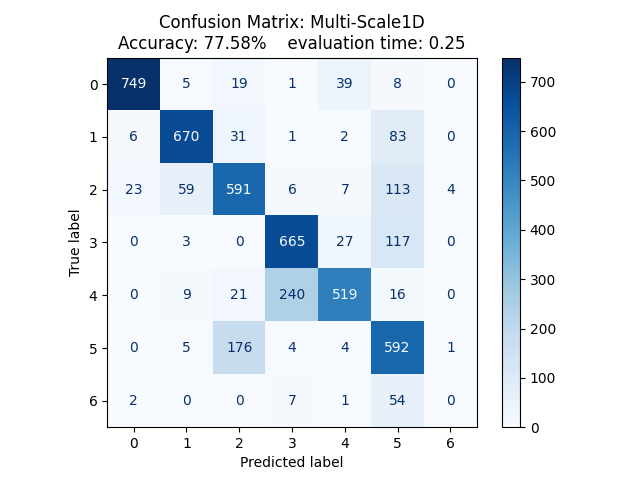
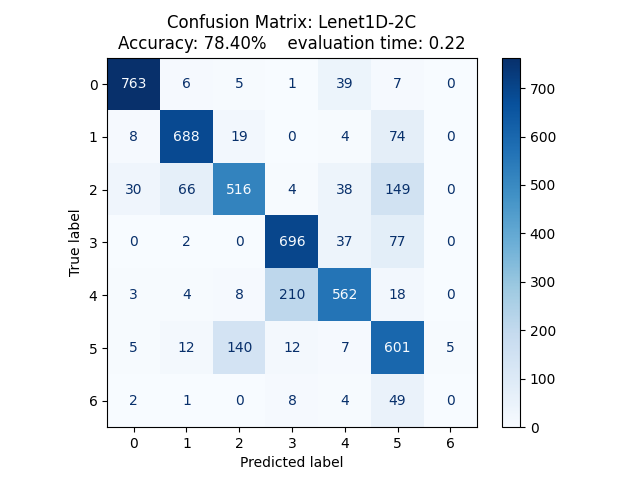
Caricamento nuove modifiche Aggiunte l'analisi delle performance e le matrici di confusione nel codice nonché la possibilità di variare la complessità del dataset da analizzare

diff --git a/Emg_evaluate.py b/Emg_evaluate.py
@@ -37,15 +37,17 @@ test_loader = DataLoader(test_ds, batch_size=BATCH_SIZE, shuffle=False)
 
 #setup del training
 device= torch.device("cuda" if torch.cuda.is_available() else "cpu")
-model=EmgStandard(num_classes=NUM_CLASSES).to(device)
+model=Emg(num_classes=NUM_CLASSES).to(device)
 print(f"Dispositivo utilizzato per la valutazione: {model.__class__.__name__}")
 model_filepath = base_path / "emg_lenet1d.pth"
+loss_function = nn.CrossEntropyLoss()
 model.load_state_dict(torch.load(model_filepath))
 model.eval()
 training_start_time= time()
 
 # 3. Disattiviamo il calcolo dei gradienti per risparmiare memoria e velocizzare i calcoli
 with torch.no_grad():
+    test_loss = 0.0
     correct = 0
     total = 0
     all_preds=[]
@@ -56,11 +58,13 @@ with torch.no_grad():
         
         # Passaggio in avanti
         outputs = model(inputs)
+        t_loss = loss_function(outputs, labels)
         
         # Troviamo il gesto con il punteggio più alto (0 o 1)
         _, predicted = torch.max(outputs.data, 1)
         
         # Accumuliamo il totale delle finestre e quelle indovinate
+        test_loss += t_loss.item()
         total += labels.size(0)
         correct += (predicted == labels).sum().item()
 
@@ -71,10 +75,11 @@ with torch.no_grad():
     print(f"Accuracy of the network on the test dataset: {100 * correct / total:.2f} %")
 training_end_time=time()
 training_time= training_end_time - training_start_time
+avg_test_loss = test_loss / len(test_loader)
 print(f"Testing completed in {training_time:.4f} seconds")
 cm = confusion_matrix(all_labels, all_preds)
 
 disp = ConfusionMatrixDisplay(confusion_matrix=cm, display_labels=list(range(NUM_CLASSES)))
 disp.plot(cmap=plt.cm.Blues, values_format='d')
-plt.title(f'Confusion Matrix: Lenet1D-2C\nAccuracy: {100 * correct / total:.2f}%    ' f'evaluation time: {training_time:.2f}')
+plt.title(f'Confusion Matrix: Lenet1D-2C\nAccuracy: {100 * correct / total:.2f}%    ' f'evaluation time: {training_time:.2f}    'f'loss: {avg_test_loss:.2f}%')
 plt.show()

diff --git a/Emg_dataset.py b/Emg_dataset.py
@@ -1,7 +1,7 @@
 
 
 
-
+from pathlib import Path
 import os
 import numpy as np
 import pandas as pd
@@ -97,10 +97,11 @@ def preprocess_data(x_train, x_test):
 
 if __name__ == "__main__":
    
-    data_path = "./dataset" 
+    base_path= Path(__file__).resolve().parent
+    data_folder_path = base_path / "dataset" 
     
 
-    estrattore = EmgDataloader(data_path)
+    estrattore = EmgDataloader(data_folder_path)
     
     (x_train, y_train), (x_test, y_test) = estrattore.load_data()
     train_tensor, test_tensor = preprocess_data(x_train, x_test)

diff --git a/Emg_train.py b/Emg_train.py
@@ -10,7 +10,7 @@ from Emg_model import Emg, EmgStandard, EmgMultiScale
 
 #def train_model():
 BATCH_SIZE = 64      
-EPOCHS = 15          
+EPOCHS = 125        
 LEARNING_RATE = 0.001
 NUM_CLASSES= 7
 
@@ -35,7 +35,7 @@ test_loader = DataLoader(test_ds, batch_size=BATCH_SIZE, shuffle=False)
 
 #setup del training
 device= torch.device("cuda" if torch.cuda.is_available() else "cpu")
-model=EmgStandard(num_classes=NUM_CLASSES).to(device)
+model=Emg(num_classes=NUM_CLASSES).to(device)
 print(f"Dispositivo utilizzato per l'allenamento: {model.__class__.__name__}")
 loss_function = nn.CrossEntropyLoss()
 optimizer = optim.Adam(model.parameters(), lr=LEARNING_RATE)

diff --git a/Emg_model.py b/Emg_model.py
@@ -127,4 +127,4 @@ if __name__ == "__main__":
     model1= Emg()
     model2= EmgStandard()
     model3= EmgMultiScale()
-    print (model1, model2)
+    print (model1, model2, model3)